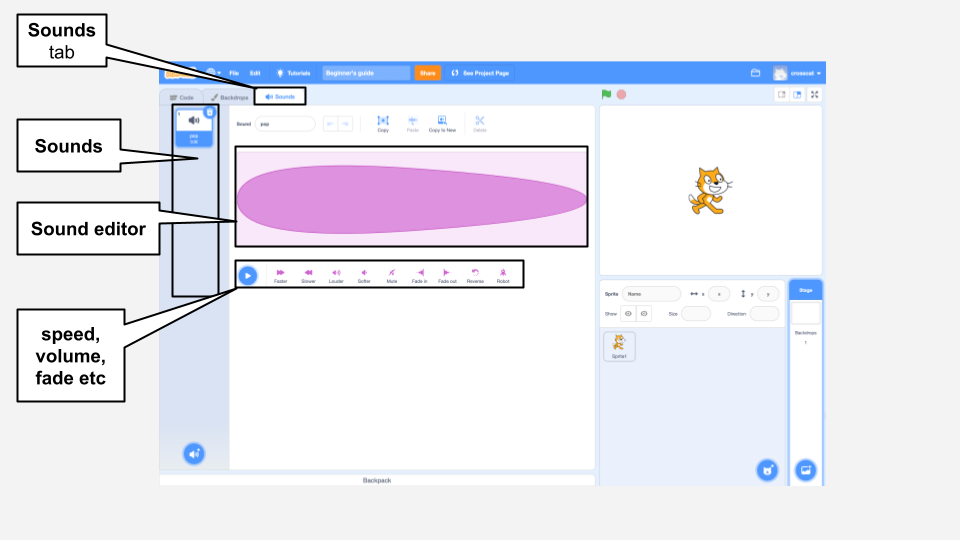
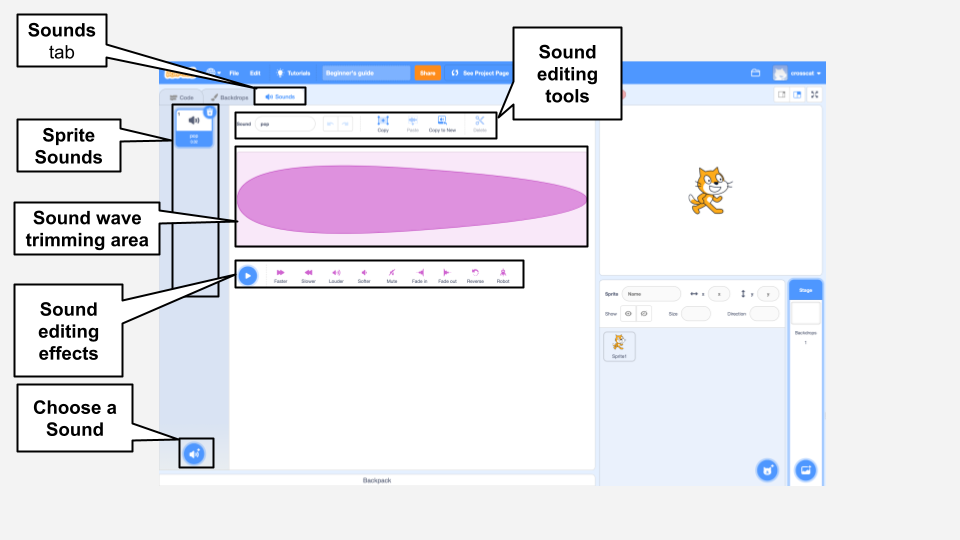
Co-authored-by: Dr Tracy Gardner <tracygardner@users.noreply.github.com>

diff --git a/en/step_11.md b/en/step_11.md
@@ -1,1 +1,98 @@
 ## Sensing
+
+The blocks in the `Sensing`{:class="block3sensing"} blocks menu are used to get user text input, detect conditions, and report on values in your project.
+
+There are several hexagonal `Sensing`{:class="block3sensing"} blocks that you can use in `Control`{:class="block3control"} blocks to make decisions and control when blocks run.
+
+The `touching`{:class="block3sensing"} block has options for detecting whether the sprite that owns the script is touching the mouse pointer (where you finger last touched on a tablet), the edge of the Stage or another sprite:
+
+```blocks
+<touching (mouse-pointer v) ?>
+
+<touching (edge v) ?>
+
+<touching (Sprite2 v) ?>
+```
+
+There are blocks for detecting whether the sprite that owns the script is touching another colour (on the Stage or another sprite), or whether a colour on this sprite is touching another colour.
+
+```blocks3
+<touching color (#c5a97b) ?>
+
+<color (#c219ed) is touching (#62d1e0) ?>
+```
+
+The `key pressed`{:class="block3sensing"} block has options for number, letter and arrow keys. You need a keyboard to be able to enter keys. It detects whether the key is currently being pressed:
+
+```blocks
+<key (space v) pressed?>
+```
+
+The `mouse down`{:class="block3sensing"} block detects whether the mouse is currently pressed, or the screen is being tapped or touched on a touchscreen:
+
+```blocks
+<mouse down?>
+```
+
+The `ask`{:class="block3sensing"} and `answer`{:class="block3sensing"} blocks are used to get text input from the user:
+
+Answer is a 'reporter' that you can use as a variable.
+
+```blocks
+ask [What's your name] and wait
+
+(answer) // the text the the user typed 
+```
+
+The `ask`{:class="block3sensing"} block works with a keyboard or with a virtual on-screen keyboard on a tablet.
+
+[[[scratch3-ask-answer-chat]]]
+
+The `Sensing`{:class="block3sensing"} blocks menu also contains several 'reporter' blocks that can be used to get values:
+
+```blocks3
+(distance to (mouse-pointer v))
+
+(distance to (Sprite2 v))
+```
+
+You can detect the current position of the mouse pointer (or the current or most recent position of your finger on a tablet): 
+
+```blocks3
+(mouse x)
+
+(mouse y)
+```
+
+You can detect the `loudness`{:class="block3sensing"} of sound from the microphone, a pop-up will ask the user for permission to use the microphone:
+
+```blocks3
+(loudness)
+```
+
+The `timer`{:class="block3sensing"} starts counting when the project loads and can be set back to `0` with `reset timer`{:class="block3sensing"}:
+
+```blocks3
+(timer)
+
+reset timer
+```
+
+You can also access reporters for the Stage and other sprites:
+
+```blocks3
+([backdrop # v] of (_stage_ v))
+
+([x position v] of (Sprite2 v))
+
+([costume # v] of (Sprite2 v))
+```
+
+There are reporters related to the date and time in the real world, in your local timezone:
+
+```blocks3
+(current [year v]) // hour, minute, ...
+
+(days since 2000)
+```
+

diff --git a/en/step_10.md b/en/step_10.md
@@ -1,1 +1,73 @@
 ## Control
+
+The blocks in the `Control`{:class="block3control"} blocks menu control the order that blocks run in, including decisions (selection) and loops (repetition).
+
+
+The `wait`{:class="block3control"} block delays for a number of seconds before running the next block.
+
+```blocks3
+wait (1) // delay for 1 second
+
+wait(0.1) // delay for one tenth of a second
+```
+
+Loops control how many time the code inside them runs.
+
+```blocks3
+repeat (4) times // run the blocks inside four time
+
+end
+```
+
+```blocks
+forever // run the blocks inside until stopped
+
+end
+```
+
+[[[scratch3-forever-condition]]]
+
+**Tip:** You can stop a `forever`{:class="block3events"} block by clicking the 'Stop' button above the stage. Or using the `stop`{:class="block3control"} blocks. 
+
+There are three options for the `stop`{:class="block3events"} block:
+
+```blocks
+stop [all] // stop all scripts in all sprites
+
+stop [this script]
+
+stop [other scripts in sprite]
+```
+
+The `if...then`{:class="block3control"} and `if...then...else` blocks are used to make decisions about which code blocks to run next. This is sometimes called **selection**. The `if...then`{:class="block3control"} block checks a hexagonal shaped **condition** and runs the code blocks inside if if the condition is **true**. The `if...then..else`{:class="block3control"} block also has a section for code blocks to run if the condition is **false**.are
+
+```blocks
+if <> then
+
+end
+
+if <> then
+
+else
+
+end
+```
+
+[[[scratch3-if-then-else]]]
+
+You can find hexagonal shaped blocks to use as conditions in the `Operators`{:class="block3operators"} and `Sensing`{:class="block3sensing"} blocks menus.
+
+The `wait until`{:class="block3control"} and `repeat until`{:class="block3control"} blocks also use conditions:
+
+```blocks
+wait until <> // delay until the condition is true
+
+
+repeat until <> // repeat the blocks inside until the condtion is true
+
+end
+```
+
+
+
+

diff --git a/en/step_9.md b/en/step_9.md
@@ -2,24 +2,47 @@
 
 Blocks in the `Events`{:class="block3events"} blocks menu control when scripts are started.
 
-**Hat blocks** run the blocks below them when a particular event happens. They are shaped so 
-
+**Hat blocks** run the blocks below them when a particular event happens. They are shaped so that you can't join a block above them.
 
 You can use:
 
 ```blocks3
 
-when flag clicked // run 
+when flag clicked // run blocks when the green flag above the Stage is clicked
+
+when sprite clicked // run the blocks when the sprite for this script is clicked
+
+when stage clicked // run the blocks when the stage is clicked
 
 ```
 
+**Tip:** The `when stage clicked`{:class="block3events"} block is only available when you are working in the 'Code' area for the Stage.
 
+If you are on a computer with a keyboard you can use `when key pressed`{:class="block3events"}:
 
-[[[generic-scratch3-broadcast-message]]]
+```blocks3
+when [space v] pressed // change to number, letter or arrow keys
+```
 
-
-
+You can also use a `when backdrop switches to`{:class="block3events"} block to start a script when the backdrop changes. 
 
 [[[scratch3-changing-backdrops-pages-levels]]]
 
 [[[scratch3-show-hide-sprites-backdrops]]]
+
+
+The `when >`{:class="block3events"} block has two versions:
+
+```blocks
+when [loudness] > (10) // run blocks when the microphone detects sound
+
+when [timer] > (10) // run blocks when the timer reaches 10 seconds
+```
+
+[[[scratch3-time-delay]]]
+
+
+You can use `when i recieve (message v)`{:class="block3events"} to start a script when any sprite runs a matching `broadcast (message v)`{:class="block3events"} block.
+
+[[[generic-scratch3-broadcast-message]]]
+

diff --git a/en/step_12.md b/en/step_12.md
@@ -1,1 +1,61 @@
 ## Operators
+
+The blocks `Operators`{:class="block3operators"} are used to compare variables and values, do calculations with numbers and work with strings (text).
+
+The conditions (also known as 'boolean blocks') return true or false and can be used in `Control`{:class="block3control"} blocks with a hexagonal input.
+
+Comparison operators:
+
+```blocks3
+<[] > [50]>
+
+<[] < [50]>
+
+<[] = [50]>
+```
+
+**Tip:** When you use `=`{:class="block3operators"} with text you can mix upper and lowercase letters, so `<`YES` = `yes`>`{:class="block3operators"} returns **true**.
+
+
+There are maths operators:
+```blocks3
+([] + [])
+
+([] - [])
+
+([] * [])
+
+([] / [])
+```
+
+You can choose random numbers between the smallest and largest number (including those numbers).
+
+```blocks3
+(pick random [1] to [10]) // A number from 1 to 10
+```
+
+The `and`{:class="block3operators"}, `or`{:class="block3operators"} and `not`{:class="block3operators"} operators can be used to combine comditions.
+
+```blocks3
+<<> and <>>
+
+<<> or <>>
+
+<not <> >
+```
+
+There are blocks for working with text strings:
+
+```blocks3
+(join [apple ] [banana])
+
+(letter [1] of [apple])
+
+(length of [apple])
+
+<[apple] contains [a]>
+```
+
+[[[scratch3-join-text]]]
+
+There are also maths operators that are useful for some projects.

diff --git a/en/step_6.md b/en/step_6.md
@@ -170,12 +170,8 @@ Change the values in a `move`{:class="block3motion"} block and `turn`{:class="bl
 
 --- /collapse --- 
 
---- task ---
-**Try:**
-+ Drag your sprite to a different starting position on the Stage.
-+ Increase the number of steps in a `move`{:class="block3motion"} block to make your sprite move faster, or decrease the number to make your sprite move slower.
-+ Change the number of degrees in a `point in direction`{:class="block3motion"} block to change the direction that your sprite starts to move in. 
-+ Change the number of degrees in a `turn right`{:class="block3motion"} or `turn left`{:class="block3motion"} block so that your sprite turns faster or slower. 
-+ Combine `move`{:class="block3motion"} and `turn right`{:class="block3motion"} or `turn left`{:class="block3motion"} blocks so that your sprite moves and turns. 
-+ Experiment with the `set rotation style`{:class="block3motion"} block to make sure that you understand what the different options do.
---- /task ---
+You can position sprites on the Stage using x and y coordinates:
+
+[[[generic-scratch3-coordinates]]]
+
+[[[scratch3-glide-to-object]]]

diff --git a/en/step_15.md b/en/step_15.md
@@ -1,1 +1,17 @@
 ## Extensions
+
+You can add `extensions`{:class="block3extensions"} to Scratch that add new blocks to the blocks menu with additional features.
+
+[[[scratch3-text-to-speech]]]
+
+[[[generic-scratch3-add-pen-extension]]]
+
+[[[generic-scratch3-add-music-extension]]]
+
+There are also Video Sensing and Translate extensions.
+
+If you are using a Raspberry Pi computer then you can also use extensions for using electronics with the Raspberry Pi (you will need extra components or a Sense Hat):
+
+[[[rpi-scratch-add-pi-gpio]]]
+
+[[[rpi-scratch3-add-sensehat-extension]]]

diff --git a/en/step_17.md b/en/step_17.md
@@ -1,1 +1,12 @@
 ## Sound Editor
+
+Use the Sound editor to add and edit existing sounds and to record your own sounds. 
+
+![An annotated screenshot of the Sound tab.](images/Scratch-Sound-tab.png){:width="600px"}
+
+[[[scratch3-add-sound]]]
+[[[scratch3-record-sound]]]
+
+[[[scratch3-reverse-sound]]]
+[[[scratch3-crop-sound]]]
+[[[scratch3-sound-effects]]]

diff --git a/en/step_13.md b/en/step_13.md
@@ -73,6 +73,8 @@ Drag the slider to a convenient position on the Stage.
 
 More ideas for using variables:
 
+[[[generic-scratch3-high-score]]]
+
 [[[scratch3-join-text]]]
 
 [[[scratch3-set-variable-with-button]]]
